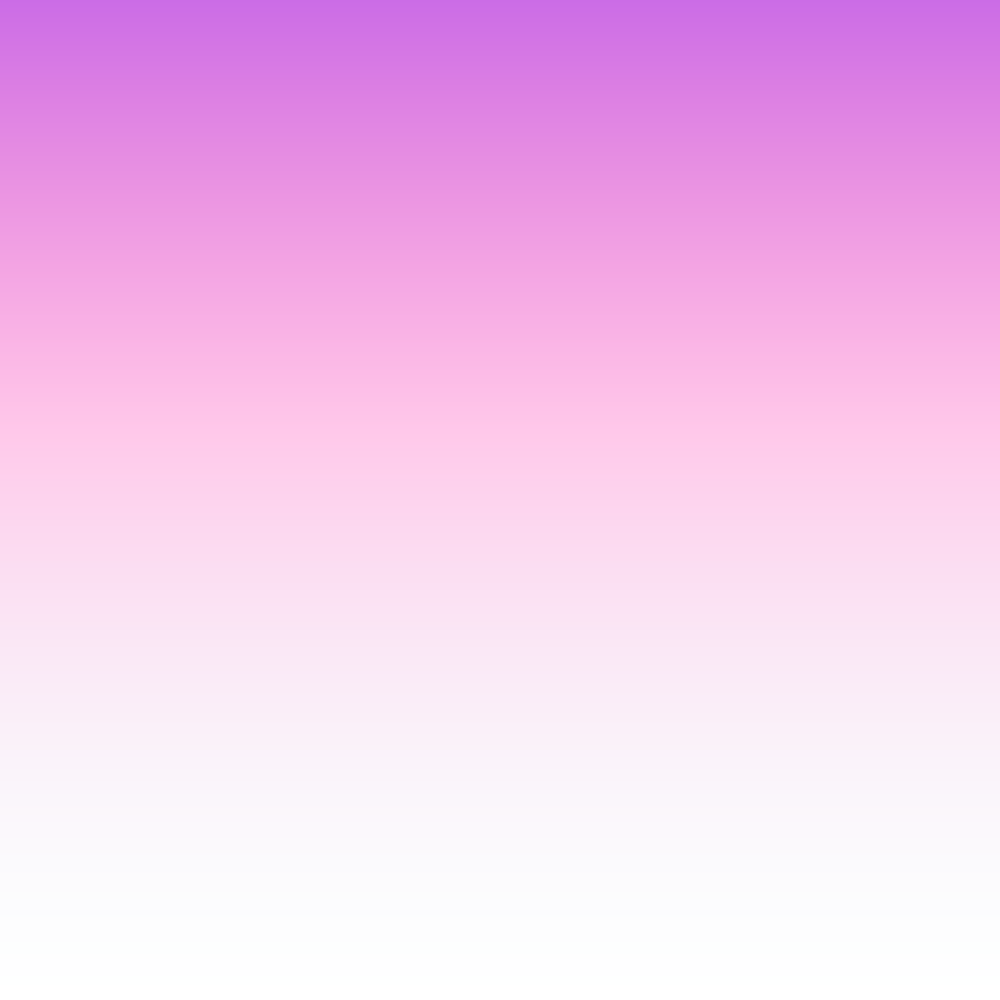
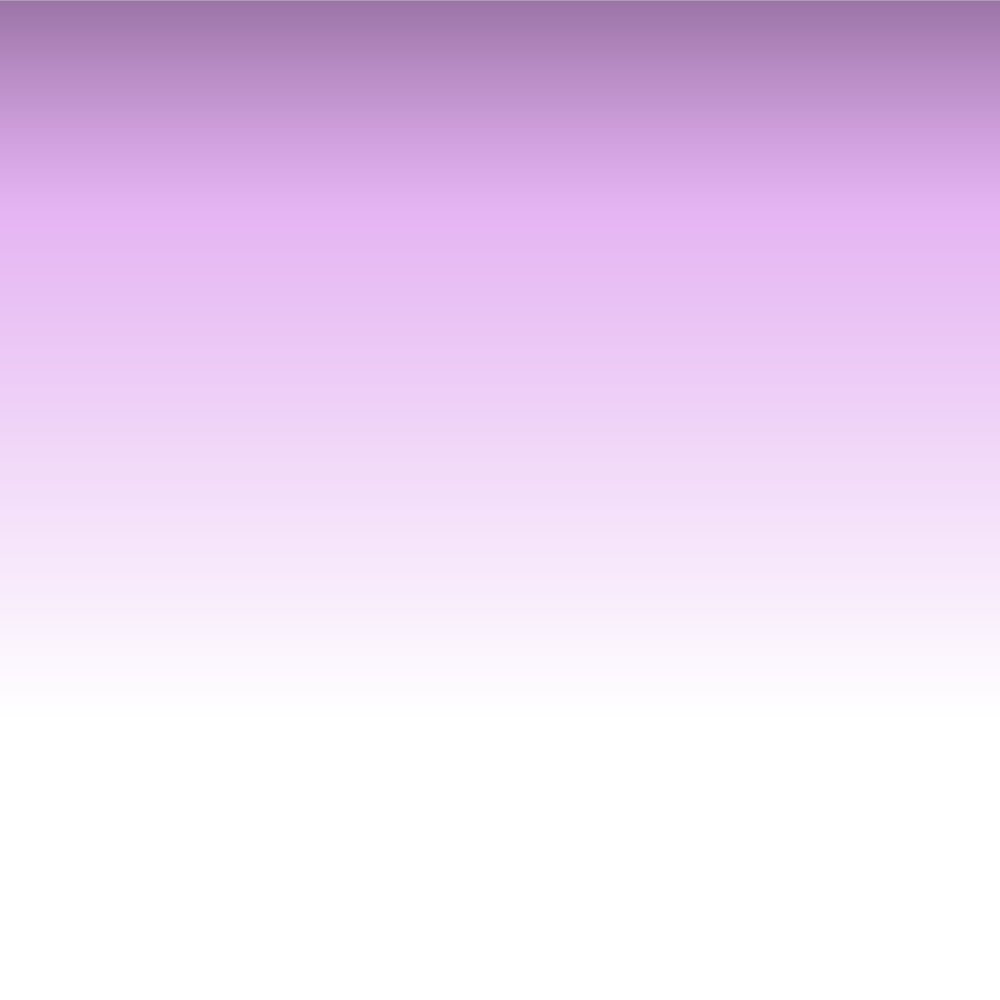
redid images and made them blend more

Changed region(s): [[0.0, 0.0, 1.0, 0.279]]

diff --git a/constants/index.js b/constants/index.js
@@ -38,7 +38,7 @@ export const coffeeItems = [
     stacks1: 'Research',
     stacks2: 'technology',
     stacks3: 'Community',
-    bgimage: require('../assets/images/2.png'),
+    bgimage: require('../assets/images/22.png'),
     image: require('../assets/logos/ieee.png'),
     desc: 'IEEE (Institute of Electrical and Electronics Engineers) is a global community of engineers, scientists, and technologynology enthusiasts. Join us to network and collaborate on cutting-edge projects.'},
   
@@ -52,7 +52,7 @@ export const coffeeItems = [
     stacks1: 'Mobile Apps',
     stacks2: 'Android',
     stacks3: 'IOS',
-    bgimage: require('../assets/images/1.png'),
+    bgimage: require('../assets/images/14.png'),
     image: require('../assets/logos/MobileTech.png'),
     desc: 'Mobile technologies Club is all about staying updated on the latest mobile app development trends, platforms, and tools.'},
     
@@ -95,7 +95,7 @@ export const coffeeItems = [
     stacks1: 'Google',
     stacks2: 'Hackathons',
     stacks3: 'Workshops',
-    bgimage: require('../assets/images/5.png'),
+    bgimage: require('../assets/images/21.png'),
     image: require('../assets/logos/GDSC.png'),
     desc: 'Google Developer Student Club is the official student community for Google Developers. Explore Google technologies, attend workshops, and participate in hackathons.'  },
   {
@@ -108,7 +108,7 @@ export const coffeeItems = [
     stacks1: 'Theories',
     stacks2: 'Profession',
     stacks3: 'technologynology',
-    bgimage: require('../assets/images/2.png'),
+    bgimage: require('../assets/images/22.png'),
     image: require('../assets/logos/ACM.png'),
     desc: 'ACM (Association for Computing Machinery) is dedicated to advancing computing as a science and profession. Join us to engage with computer science enthusiasts and explore the latest developments in the field.' },
   {
@@ -121,7 +121,7 @@ export const coffeeItems = [
     stacks1: 'Management',
     stacks2: 'Creativity',
     stacks3: 'Innovate',
-    bgimage: require('../assets/images/7.png'),
+    bgimage: require('../assets/images/19.png'),
     image: require('../assets/logos/PDT.png'),
     desc: 'PDT (Product Development Team) is all about turning ideas into reality. Join us if you are passionate about innovation and want to be part of creating exciting new products.' },
   {
@@ -134,7 +134,7 @@ export const coffeeItems = [
     stacks1: 'Research',
     stacks2: 'Community',
     stacks3: 'Indian Society',
-    bgimage: require('../assets/images/7.png'),
+    bgimage: require('../assets/images/19.png'),
     image: require('../assets/logos/CSI.png'),
     desc: 'CSI (Computer Society of India) is committed to promoting the advancement of computer science in India. Connect with like-minded individuals and contribute to the technology community.' }, 
   {
@@ -147,7 +147,7 @@ export const coffeeItems = [
     stacks1: 'Drones',
     stacks2: 'Photography',
     stacks3: 'Aerial technology',
-    bgimage: require('../assets/images/8.png'),
+    bgimage: require('../assets/images/23.png'),
     image: require('../assets/logos/drone.png'),
     desc: 'Bennett DroneSoc is your gateway to aerial technolology. Discover the art of flying drones, explore aerial photography, and learn about the latest drone innovations.' }, 
   {
@@ -160,7 +160,7 @@ export const coffeeItems = [
     stacks1: 'AI',
     stacks2: 'Machine Learning',
     stacks3: 'Neural Network',
-    bgimage: require('../assets/images/9.png'),
+    bgimage: require('../assets/images/24.png'),
     image: require('../assets/logos/bais.png'),
     desc: ' BIAS (Bennett Institute of AI Studies) is your gateway to the fascinating world of Artificial Intelligence (AI). Join us to understand AIs impact on various domains and dive deep into machine learning and neural networks.' },
   {
@@ -186,7 +186,7 @@ export const coffeeItems = [
     stacks1: 'Devops',
     stacks2: 'Learn Automation',
     stacks3: 'Deployment',
-    bgimage: require('../assets/images/7.png'),
+    bgimage: require('../assets/images/19.png'),
     image: require('../assets/logos/DEVOPS.png'),
     desc: 'Devops Club is your introduction to the world of DevOps (Development and Operations). Learn how to automate software development and deployment processes.' },
   {
@@ -199,7 +199,7 @@ export const coffeeItems = [
     stacks1: 'Front-End',
     stacks2: 'Back-End',
     stacks3: 'Web App',
-    bgimage: require('../assets/images/7.png'),
+    bgimage: require('../assets/images/19.png'),
     image: require('../assets/logos/FULLSTACK.png'),
     desc: 'Full Stack Club is your path to becoming a well-rounded web developer. Learn both front-end and back-end technologies to create complete web applications.' },
   {
@@ -230,7 +230,7 @@ export const coffeeItems = [
     desc: 'Geeks for Geeks BU is a club for coding and problem-solving enthusiasts. Sharpen your programming skills, tackle coding challenges, and collaborate on technology projects.' },
   {
     id: 16,
-    name: 'technotix',
+    name: 'Technotix',
     tag1: 'gadgets',
     tag2: 'discussion',
     tag3: 'technology',
@@ -290,7 +290,7 @@ export const coffeeItems = [
     stacks1: 'Robotics',
     stacks2: 'Automation',
     stacks3: 'Software',
-    bgimage: require('../assets/images/7.png'),
+    bgimage: require('../assets/images/19.png'),
     image: require('../assets/logos/RPA.png'),
     desc: 'RPA (Robotic Process Automation) Club is your introduction to the world of automation. Learn how to streamline repetitive tasks using software robots and make processes more efficient.' },
   {
@@ -303,7 +303,7 @@ export const coffeeItems = [
     stacks1: 'Visualization',
     stacks2: 'Processing',
     stacks3: 'Analysis',
-    bgimage: require('../assets/images/7.png'),
+    bgimage: require('../assets/images/19.png'),
     image: require('../assets/logos/data.png'),
     desc: 'Data Science Club at Bennett University is where data enthusiasts come together. We explore data analysis, visualization, and machine learning to derive meaningful insights from data.' },
   {
@@ -316,7 +316,7 @@ export const coffeeItems = [
     stacks1: 'Immersive',
     stacks2: 'Gaming',
     stacks3: 'technologynology',
-    bgimage: require('../assets/images/8.png'),
+    bgimage: require('../assets/images/23.png'),
     image: require('../assets/logos/alt.png'),
     desc: 'ALTReality is all about diving into the immersive worlds of Augmented Reality (AR) and Virtual Reality (VR). Explore the potential of AR and VR technologies, from gaming to real-world applications.' },
   

diff --git a/screens/ProductScreen.js b/screens/ProductScreen.js
@@ -91,18 +91,7 @@ export default function FavouriteScreen(props) {
               
           </View>
 
-          {/* buy now button 
-          
-          <View className="flex-row justify-between px-4">
-            <TouchableOpacity className="p-4 rounded-full border border-gray-400">
-              <ShoppingBag size="30" color="gray" />
-            </TouchableOpacity>
-            <TouchableOpacity 
-              style={{backgroundColor: themeColors.bgLight}} 
-              className="p-4 rounded-full flex-1 ml-4">
-              <Text className="text-center text-white text-base font-semibold">Buy now</Text>
-            </TouchableOpacity>
-          </View>*/}
+        
         </View>
         
       

diff --git a/screens/HomeScreen.js b/screens/HomeScreen.js
@@ -52,7 +52,7 @@ export default function HomeScreen() {
             <Text style={{ fontWeight: 'bold', fontSize: 16 }}>Bennett University</Text>
           </View>
         </View>
-
+        
         <View style={{ marginHorizontal: 16, shadowColor: 'rgba(0, 0, 0, 0.2)', shadowOffset: { width: 0, height: 2 }, shadowOpacity: 1, shadowRadius: 2, marginTop: 16 }}>
           <Text style={{ fontSize: 40, fontWeight: 'bold', color: themeColors.textNeutral }}>Let's Discover</Text>
         </View>
